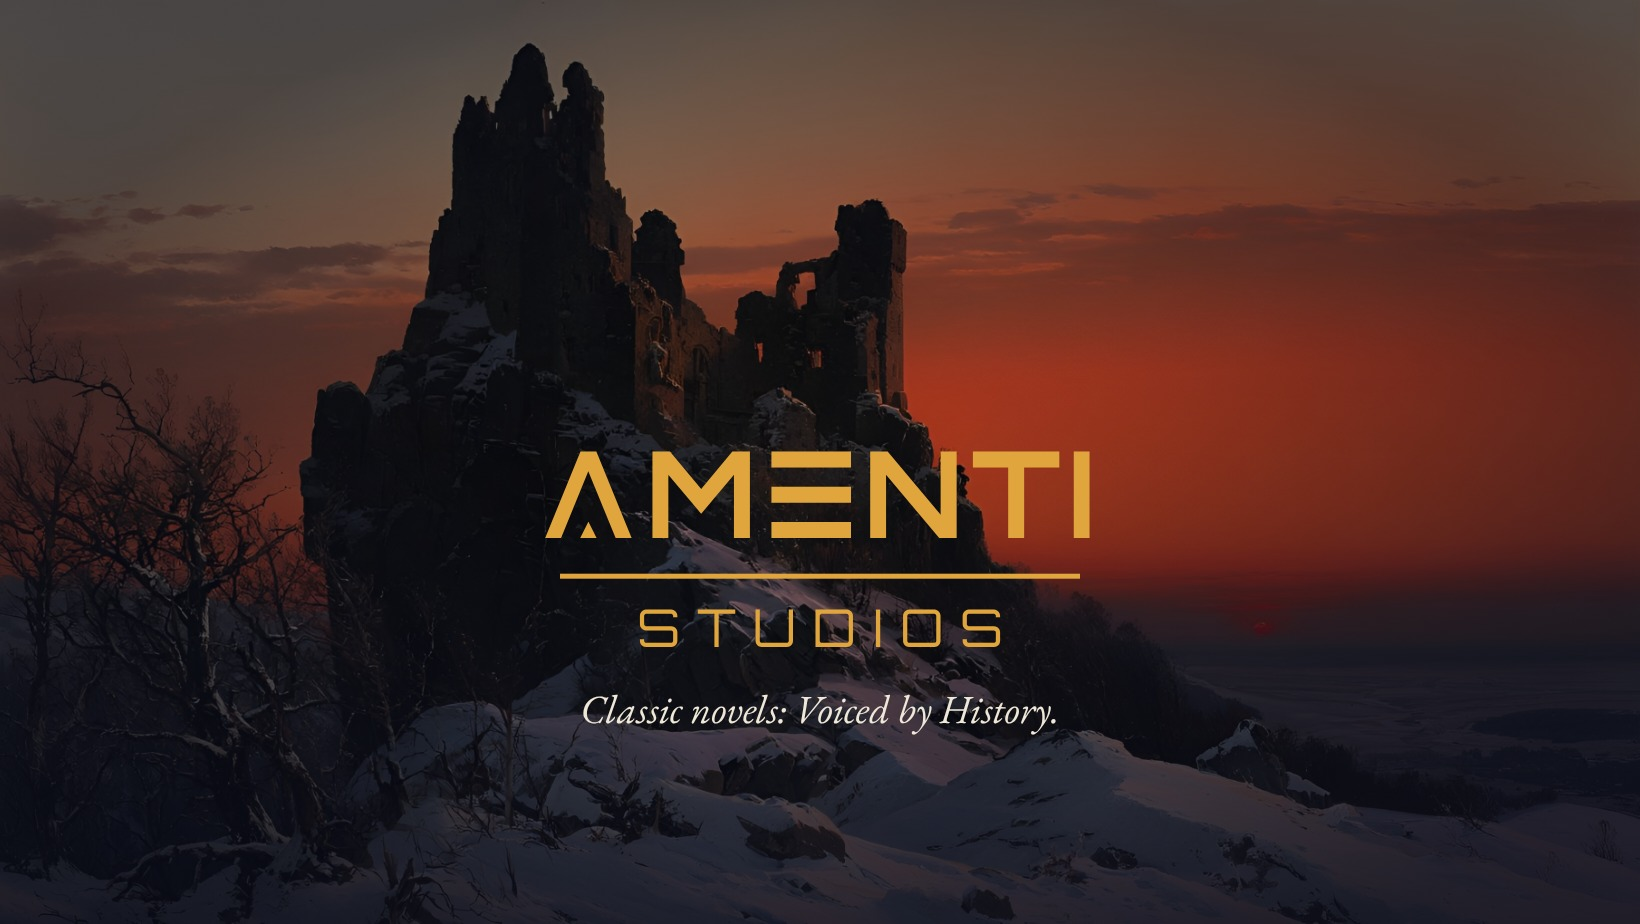
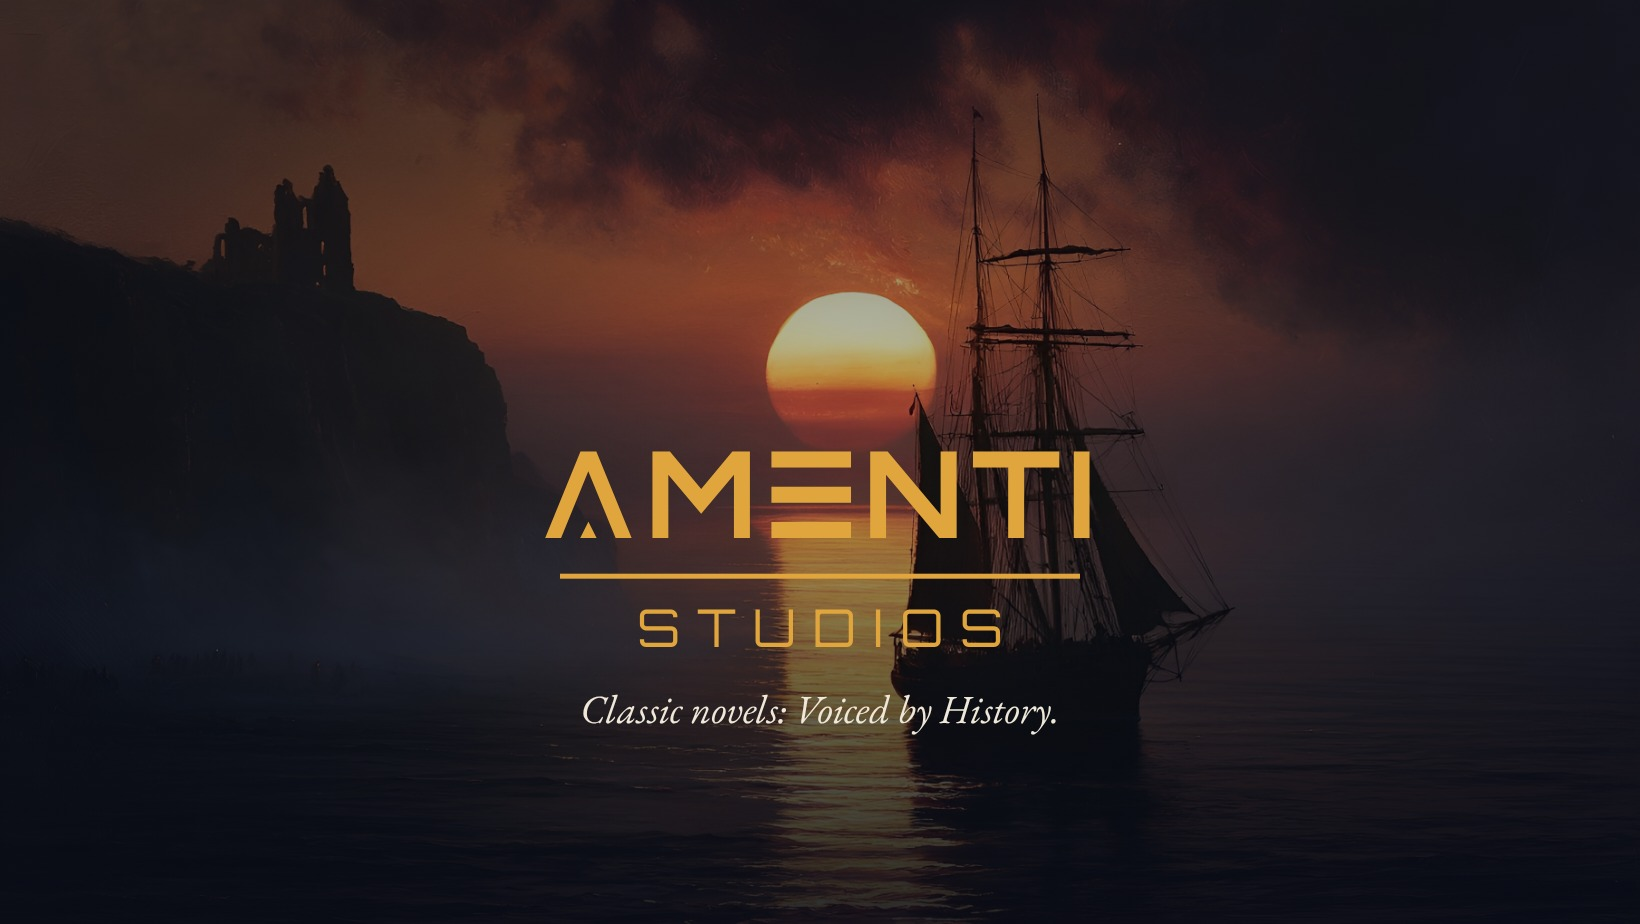
Facebook cover: the Demeter at sunset
Claude-Session: https://claude.ai/code/session_013VwDP7mPLrP4eYudhxc4u4

diff --git a/marketing/instagram/launch/facebook-cover.js b/marketing/instagram/launch/facebook-cover.js
@@ -3,7 +3,7 @@ const F='file:///home/claude/as/fonts/';const NM='file:///tmp/claude-0/card/node
 const css=`@font-face{font-family:AD;font-weight:700;src:url(${F}amenti-display-700.woff2)}@font-face{font-family:AD;font-weight:400;src:url(${F}amenti-display-400.woff2)}
 @font-face{font-family:G;font-style:italic;src:url(${NM}/eb-garamond/files/eb-garamond-latin-400-italic.woff2)}
 *{margin:0}body{width:1640px;height:924px;overflow:hidden;background:#0c1020}
-.bg{position:absolute;inset:0;background:url(file:///tmp/claude-0/up/out2/ch27-redsky-0.jpg) 50% 45%/cover}
+.bg{position:absolute;inset:0;background:url(file:///tmp/claude-0/up/out2/${process.env.IMG}.jpg) ${process.env.POS}/cover}
 .sh{position:absolute;inset:0;background:radial-gradient(ellipse at 50% 55%,rgba(8,10,22,.15),rgba(8,10,22,.65) 75%),linear-gradient(180deg,rgba(8,10,22,0) 40%,rgba(8,10,22,.7))}
 .t{position:absolute;left:0;right:0;top:50%;transform:translateY(-10%);text-align:center;color:#e0a53c}
 .w{font:700 120px/1 AD;letter-spacing:.06em}.r{height:5px;background:#e0a53c;width:520px;margin:22px auto}
@@ -11,4 +11,4 @@ const css=`@font-face{font-family:AD;font-weight:700;src:url(${F}amenti-display-
 (async()=>{const b=await chromium.launch();const p=await b.newPage({viewport:{width:1640,height:924}});
 fs.writeFileSync('/tmp/claude-0/ig/_fb.html',`<style>${css}</style><div class=bg></div><div class=sh></div><div class=t><div class=w>AMENTI</div><div class=r></div><div class=s>STUDIOS</div><div class=q>Classic novels: Voiced by History.</div></div>`);
 await p.goto('file:///tmp/claude-0/ig/_fb.html');await p.evaluate(()=>document.fonts.ready);await p.waitForTimeout(300);
-await p.screenshot({path:'/tmp/claude-0/ig/facebook-cover.jpg',type:'jpeg',quality:92});await b.close()})();
+await p.screenshot({path:'/tmp/claude-0/ig/fbc-'+process.env.K+'.jpg',type:'jpeg',quality:92});await b.close()})();
